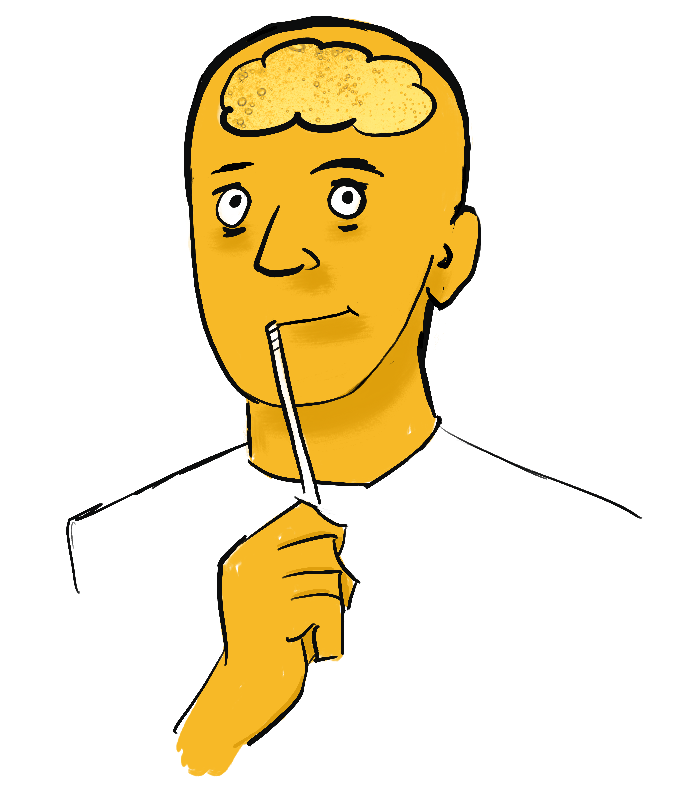
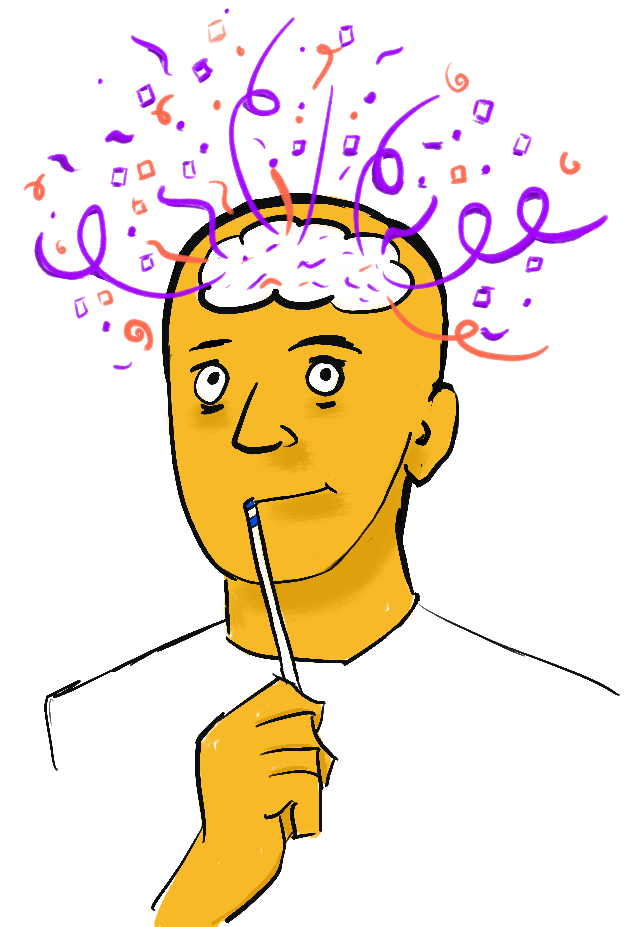
homepage updates

diff --git a/_site/index.html b/_site/index.html
@@ -48,18 +48,25 @@
 
 
 <section class="container">
-  <div class="grid grid--split-halves">
+  <div class="grid grid--showcase">
     <article id="introduction">
       
   <div class="prose">
-  <p>For the last 20 years, I’ve been designing apps and digital services. In that time, I’ve learned a great deal about how to create brilliant experiences.</p>
-<p><strong>Now I help others unleash their creative potential.</strong> Whether you’re an individual or large organisation: I help get your brain fizzing with ideas.</p>
+  <p>One good idea can transform a business from mediocre to extraordinary. Yet, many regard creativity as the preserve of artists and designers. I believe that anyone is capable of exceptional ideas — regardless of what job they do.</p>
+<p>I help people unleash their creative potential, not by relying on unlikely “eureka” moments but through a systematic approach.  Unexpected ideas then become a natural output of the process.</p>
 
   </div>
 
+      
+  <a href="/case-studies" class="button space--margin-top-1">
+    Read case studies
+    <svg viewBox="0 0 16 16" width="16" height="16" aria-hidden="true" class="icon icon--arrow">
+    <use xlink:href="/assets/images/icons.svg#icon-arrow"></use></svg>
+  </a>
+
     </article>
     
-  <figure class="figure figure--single-image ">
+  <figure class="figure figure--single-image  homepage-hero">
   <div class="figure__images">
     <img src="/assets/images/illustrations/fizzing-brain.png" class="image">
   </div>
@@ -69,9 +76,6 @@
   </div>
   
 </section>
-
-
-[Find out how I can help you](/services){.button .space--margin-top-1}
 </main>
 
 

diff --git a/_site/assets/roodesign.css b/_site/assets/roodesign.css
@@ -215,7 +215,7 @@ h1 {
     line-height: 1.09090909;
   }
 }
-@media screen and (min-width: 51.25rem) {
+@media screen and (min-width: 43.125rem) {
   h1 {
     font-size: 3.875rem;
     line-height: 1.06451613;
@@ -528,7 +528,7 @@ body {
       grid-row: 2;
     }
   }
-  @media screen and (min-width: 51.25rem) {
+  @media screen and (min-width: 43.125rem) {
     .grid--cinched > * {
       grid-column: 1 / span 7;
     }
@@ -764,7 +764,7 @@ body {
 .figure--full .figure__images > img {
   width: 100%;
 }
-@media screen and (min-width: 51.25rem) {
+@media screen and (min-width: 43.125rem) {
   .figure--bleed-start .figure__images,
   .figure--bleed-end .figure__images {
     width: calc(100% + 1.25rem);
@@ -1221,7 +1221,7 @@ body {
   border: 1px dashed #EFEFEF;
   color: #737373;
 }
-@media screen and (min-width: 51.25rem) {
+@media screen and (min-width: 43.125rem) {
   .card--is-linked:hover {
     transform: scale(1.05);
   }
@@ -1325,4 +1325,14 @@ body {
 .page-styleguide .grid > * {
   min-height: 180px;
   outline: 1px solid green;
+}
+.homepage-hero {
+  max-width: 25rem;
+  justify-self: center;
+}
+@media screen and (min-width: 43.125rem) {
+  .homepage-hero {
+    margin-top: -6.25rem;
+    z-index: -1;
+  }
 }

diff --git a/_source/less/roodesign.less b/_source/less/roodesign.less
@@ -64,3 +64,13 @@ body {
     outline: 1px solid green;
   }
 }
+
+//homepage styles
+.homepage-hero {
+  max-width: unit(400/@base,rem);
+  justify-self: center;
+  .break-mid({
+    margin-top: unit(-100/@base,rem);
+    z-index: -1;
+  });
+}

diff --git a/_source/less/_settings.less b/_source/less/_settings.less
@@ -15,7 +15,7 @@
 
 @break-min: 580;
 @break-min-rem: unit(@break-min/@base,rem);
-@break-mid: 820;
+@break-mid: 690;
 @break-mid-rem: unit(@break-mid/@base,rem);
 
 //paths
